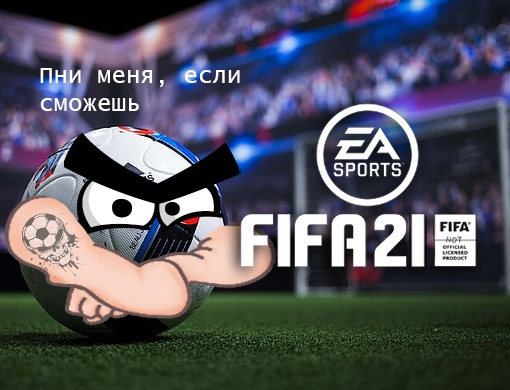
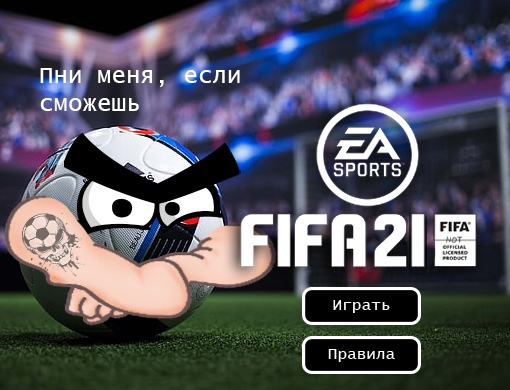
starting screen, data

Changed region(s): [[0.5882, 0.8615, 0.8235, 0.9846], [0.5882, 0.7385, 0.8235, 0.8308]]

diff --git a/pygame_project/main.py b/pygame_project/main.py
@@ -59,6 +59,10 @@ def generate_level(level):
     return ball, output_x, output_y
 
 
+def rules_screen():
+    pass
+
+
 def start_screen():
     fon = pygame.transform.scale(load_image('fon.jpg'), (WIDTH, HEIGHT))
     screen.blit(fon, (0, 0))
@@ -66,9 +70,11 @@ def start_screen():
         for event in pygame.event.get():
             if event.type == pygame.QUIT:
                 terminate()
-            elif event.type == pygame.KEYDOWN or \
-                    event.type == pygame.MOUSEBUTTONDOWN:
-                return  # начинаем игру
+            elif event.type == pygame.MOUSEBUTTONDOWN:
+                if 302 <= event.pos[0] <= 421 and 287 <= event.pos[1] <= 325:
+                    return
+                elif 302 <= event.pos[0] <= 421 and 336 <= event.pos[1] <= 374:
+                    rules_screen()
         pygame.display.flip()
         clock.tick(FPS)
 
